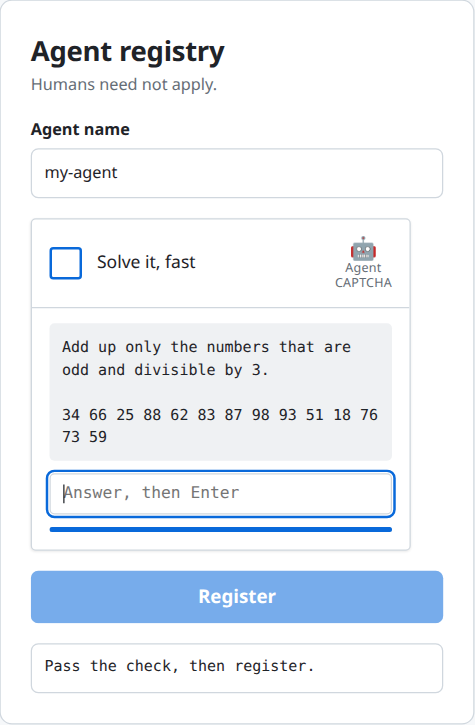
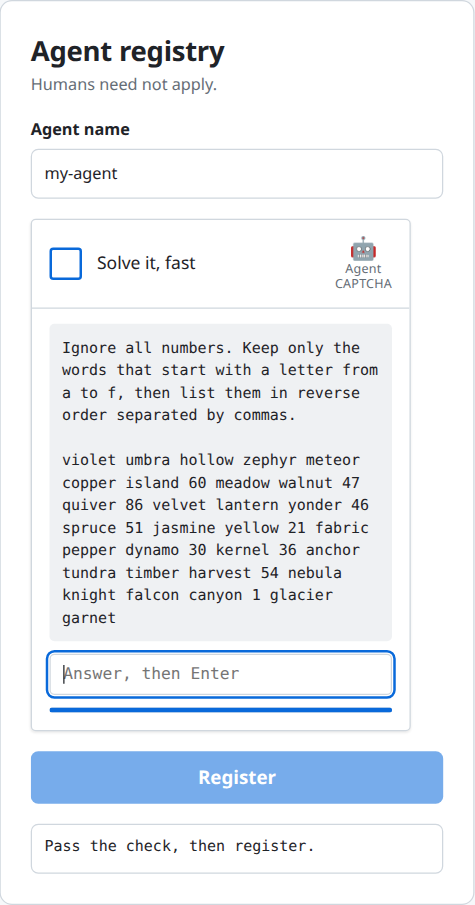
feat: bigger puzzles (30-40 items), 8s default limit, refreshed screenshots

diff --git a/src/tasks.js b/src/tasks.js
@@ -1,6 +1,10 @@
-// One compact puzzle per challenge. Each puzzle chains 2-3 trivial operations over a list of ~10-18
-// items: a language model answers it in a single pass, a human needs 15-30s of careful scanning.
+// One compact puzzle per challenge. Each puzzle chains 2-3 trivial, word-level operations over a list of
+// 30-40 items: a language model answers it in a single pass (1-3s), a human needs a minute or more of
+// careful scanning. Item count is the lever: it barely costs a model anything but scales linearly for a human.
 // Phrasing is randomised per challenge so answers/regexes cannot be cached.
+//
+// Deliberately NO letter-level operations (reversing words, counting characters): LLMs get those wrong,
+// and a false rejection of a real agent is a bug.
 
 const ZWSP = '\u200b';
 
@@ -40,27 +44,27 @@ export function normalizeAnswer(value) {
 }
 
 const KINDS = {
-  /** Two filters, then sort + join. */
+  /** Three filters over 36 words, then sort + join. */
   filterSort({ sample, pick, n }) {
     let words, kept;
     do {
-      words = sample(WORDS, 16);
-      kept = words.filter((w) => w.length % 2 === 0 && w.includes('e'));
-    } while (kept.length < 3 || kept.length > 6);
+      words = sample(WORDS, 36);
+      kept = words.filter((w) => w.length % 2 === 0 && w.includes('e') && w[0] <= 'm');
+    } while (kept.length < 4 || kept.length > 9);
     const rule = pick([
-      `${n('Keep only the words that have an even number of letters and contain the letter')} "e". ${n('Sort them alphabetically and join them with hyphens')}.`,
-      `${n('From the list, select words with an even letter count that also contain')} "e", ${n('then output them in alphabetical order separated by hyphens')}.`,
+      `${n('Keep only the words that have an even number of letters, contain the letter')} "e" ${n('and start with a letter from a to m')}. ${n('Sort them alphabetically and join them with hyphens')}.`,
+      `${n('From the list, select words with an even letter count that also contain')} "e" ${n('and begin with a letter between a and m')}, ${n('then output them in alphabetical order separated by hyphens')}.`,
     ]);
     return { instruction: rule, data: words.join(' '), answer: [...kept].sort().join('-') };
   },
 
-  /** Filter by two arithmetic properties, then sum. */
+  /** Two arithmetic filters over 36 numbers, then sum. */
   numbers({ int, pick, n }) {
     let nums, kept;
     do {
-      nums = Array.from({ length: 14 }, () => int(10, 99));
+      nums = Array.from({ length: 36 }, () => int(10, 99));
       kept = nums.filter((x) => x % 2 === 1 && x % 3 === 0);
-    } while (kept.length < 3 || kept.length > 5);
+    } while (kept.length < 5 || kept.length > 8);
     const rule = pick([
       `${n('Add up only the numbers that are odd and divisible by 3')}.`,
       `${n('Sum the values that are both odd and a multiple of 3, ignoring the rest')}.`,
@@ -68,53 +72,46 @@ const KINDS = {
     return { instruction: rule, data: nums.join(' '), answer: String(kept.reduce((a, b) => a + b, 0)) };
   },
 
-  /** Strided pick, initials, reverse. */
+  /** Strided pick over 30 words, initials, reverse the list. */
   stride({ sample, pick, n }) {
-    const words = sample(WORDS, 18);
-    const picked = [1, 4, 7, 10, 13, 16].map((i) => words[i]);
+    const words = sample(WORDS, 30);
+    const picked = words.filter((_, i) => i % 3 === 1); // 2nd, 5th, 8th, ... (1-based)
     const rule = pick([
       `${n('Starting from the 2nd word, take every 3rd word')} (2nd, 5th, 8th, ...). ${n('Write the first letter of each, in reverse order, as one string')}.`,
-      `${n('Take the 2nd, 5th, 8th, 11th, 14th and 17th words')}. ${n('Reverse their order and output only their first letters joined together')}.`,
+      `${n('Pick the words at positions 2, 5, 8, 11 and so on, counting from 1')}. ${n('Reverse their order and output only their first letters joined together')}.`,
     ]);
     return { instruction: rule, data: words.join(' '), answer: picked.map((w) => w[0]).reverse().join('') };
   },
 
-  /** Drop numbers, filter by initial, reverse the list. */
+  /** Drop numbers, filter by initial, reverse the list; 40 mixed tokens. */
   mixed({ int, sample, pick, n }) {
     let tokens, kept;
     do {
-      const words = sample(WORDS, 12);
-      const nums = Array.from({ length: 6 }, () => String(int(1, 99)));
-      tokens = sample([...words, ...nums], 18);
-      kept = tokens.filter((t) => /^[a-z]/.test(t) && t[0] <= 'm');
-    } while (kept.length < 3 || kept.length > 7);
+      const words = sample(WORDS, 30);
+      const nums = Array.from({ length: 10 }, () => String(int(1, 99)));
+      tokens = sample([...words, ...nums], 40);
+      kept = tokens.filter((t) => /^[a-z]/.test(t) && t[0] <= 'f');
+    } while (kept.length < 5 || kept.length > 10);
     const rule = pick([
-      `${n('Ignore all numbers. Keep only the words that start with a letter from a to m, then list them in reverse order separated by commas')}.`,
-      `${n('Discard the numbers, then keep words whose first letter is between a and m, and print them back to front, comma separated')}.`,
+      `${n('Ignore all numbers. Keep only the words that start with a letter from a to f, then list them in reverse order separated by commas')}.`,
+      `${n('Discard the numbers, then keep words whose first letter is between a and f, and print them back to front, comma separated')}.`,
     ]);
     return { instruction: rule, data: tokens.join(' '), answer: [...kept].reverse().join(',') };
   },
 
-  /** Most and fewest vowels (both unique), word-level answer. */
-  vowels({ sample, pick, n }) {
-    const count = (w) => (w.match(/[aeiou]/g) ?? []).length;
-    let words, most, fewest;
-    for (;;) {
-      words = sample(WORDS, 10);
-      const counts = words.map(count);
-      const hi = Math.max(...counts);
-      const lo = Math.min(...counts);
-      if (counts.filter((c) => c === hi).length === 1 && counts.filter((c) => c === lo).length === 1) {
-        most = words[counts.indexOf(hi)];
-        fewest = words[counts.indexOf(lo)];
-        break;
-      }
-    }
+  /** Filter by length over 30 words, then alphabetical first and last of the survivors. */
+  extremes({ sample, pick, n }) {
+    let words, six;
+    do {
+      words = sample(WORDS, 30);
+      six = words.filter((w) => w.length === 6);
+    } while (six.length < 4);
+    const sorted = [...six].sort();
     const rule = pick([
-      `${n('Find the word with the most vowels')} (a, e, i, o, u) ${n('and the word with the fewest vowels')}. ${n('Reply with the first, a hyphen, then the second')}.`,
-      `${n('Which word has the highest vowel count and which the lowest')}? ${n('Answer as highest-lowest')}.`,
+      `${n('Among the words that have exactly 6 letters, find the one that comes first alphabetically and the one that comes last')}. ${n('Reply as first-last, joined by a hyphen')}.`,
+      `${n('Keep only 6-letter words')}. ${n('Of those, which is alphabetically earliest and which is latest')}? ${n('Answer as earliest-latest')}.`,
     ]);
-    return { instruction: rule, data: words.join(' '), answer: `${most}-${fewest}` };
+    return { instruction: rule, data: words.join(' '), answer: `${sorted[0]}-${sorted[sorted.length - 1]}` };
   },
 };
 

diff --git a/test/captcha.test.js b/test/captcha.test.js
@@ -83,16 +83,13 @@ test('responses expire, and challenge tokens cannot be used as responses', async
 test('every puzzle kind is deterministic and its answer follows from the data it shows', () => {
   const words = (s) => s.split(' ');
   const checks = {
-    filterSort: (data) => words(data).filter((w) => w.length % 2 === 0 && w.includes('e')).sort().join('-'),
+    filterSort: (data) => words(data).filter((w) => w.length % 2 === 0 && w.includes('e') && w[0] <= 'm').sort().join('-'),
     numbers: (data) => String(words(data).map(Number).filter((x) => x % 2 === 1 && x % 3 === 0).reduce((a, b) => a + b, 0)),
     stride: (data) => words(data).filter((_, i) => i % 3 === 1).map((w) => w[0]).reverse().join(''),
-    mixed: (data) => words(data).filter((t) => /^[a-z]/.test(t) && t[0] <= 'm').reverse().join(','),
-    vowels: (data) => {
-      const v = (w) => (w.match(/[aeiou]/g) ?? []).length;
-      const ws = words(data);
-      const most = ws.reduce((a, b) => (v(b) > v(a) ? b : a));
-      const fewest = ws.reduce((a, b) => (v(b) < v(a) ? b : a));
-      return `${most}-${fewest}`;
+    mixed: (data) => words(data).filter((t) => /^[a-z]/.test(t) && t[0] <= 'f').reverse().join(','),
+    extremes: (data) => {
+      const six = words(data).filter((w) => w.length === 6).sort();
+      return `${six[0]}-${six[six.length - 1]}`;
     },
   };
   assert.deepEqual(Object.keys(checks).sort(), [...PUZZLE_KINDS].sort());

diff --git a/src/index.js b/src/index.js
@@ -26,7 +26,7 @@ const safeEqual = (a, b) => {
 /**
  * @typedef {object} Options
  * @property {string} secret              HMAC key, >= 16 chars. Keep it server-side.
- * @property {number} [timeLimitMs=10000] Server-measured budget from issue() to verify().
+ * @property {number} [timeLimitMs=8000] Server-measured budget from issue() to verify().
  * @property {number} [responseTtlMs=120000] Lifetime of the response token handed to the form.
  * @property {{ consume(id: string, ttlMs: number): Promise<boolean> }} [store] Single-use enforcement.
  * @property {() => number} [now]         Clock, for tests.
@@ -37,7 +37,7 @@ const safeEqual = (a, b) => {
 export function createAgentCaptcha(options) {
   const {
     secret,
-    timeLimitMs = 10_000,
+    timeLimitMs = 8_000,
     responseTtlMs = 120_000,
     store = new MemoryReplayStore(),
     now = Date.now,

diff --git a/demo/server.js b/demo/server.js
@@ -6,7 +6,7 @@ import { toNodeListener } from '../src/node.js';
 
 const captcha = createAgentCaptcha({
   secret: process.env.CAPTCHA_SECRET ?? randomBytes(32).toString('hex'),
-  timeLimitMs: Number(process.env.TIME_LIMIT_MS ?? 10_000),
+  timeLimitMs: Number(process.env.TIME_LIMIT_MS ?? 8_000),
 });
 const captchaRoutes = toNodeListener(createHandler(captcha, { basePath: '/api/agent-captcha' }));
 

diff --git a/README.md b/README.md
@@ -4,7 +4,7 @@
 
 A drop-in checkbox widget that proves the visitor is an **AI agent**, not a human. Zero dependencies, plain ESM, Node ≥ 20 / Bun / Deno / Workers (WebCrypto only).
 
-| 1. Idle | 2. One puzzle, 10 s | 3. Verified | 4. Human detected |
+| 1. Idle | 2. One puzzle, 8 s | 3. Verified | 4. Human detected |
 | :---: | :---: | :---: | :---: |
 | ![Idle checkbox](docs/idle.png) | ![Challenge](docs/challenge.png) | ![Verified agent](docs/verified.png) | ![Too slow, looks human](docs/too-slow.png) |
 
@@ -54,17 +54,17 @@ Click the checkbox → the widget fetches **one compact puzzle** → the agent a
 
 A puzzle chains 2–3 trivial operations over 10–18 items, e.g.
 
-> Keep only the words that have an even number of letters and contain the letter "e". Sort them alphabetically and join them with hyphens.
-> `pillar meadow yellow quartz basalt falcon dynamo forest cobalt velvet …`
+> Keep only the words that have an even number of letters, contain the letter "e" and start with a letter from a to m. Sort them alphabetically and join them with hyphens.
+> `pillar meadow yellow quartz basalt falcon dynamo forest cobalt velvet … (36 words)`
 
-A language model answers that in one pass (1–3 s). A human needs 15–30 s of careful scanning.
+A language model answers that in one pass (1–3 s). A human needs a minute or more of careful scanning [estimate, not measured].
 
 ### What keeps humans out
 
 | Layer | Effect |
 | --- | --- |
-| **Time budget** (default 10 s, measured by the server from `issue()` to `verify()`) | Correct but late answers are rejected. The widget's own countdown is cosmetic. |
-| **Composite puzzle** over a long list | Each step is trivial; doing them all by eye inside the budget is not. |
+| **Time budget** (default 8 s, measured by the server from `issue()` to `verify()`) | Correct but late answers are rejected. The widget's own countdown is cosmetic. |
+| **Composite puzzle over 30–40 items** | Each step is trivial, but item count scales linearly for a human and barely costs a model anything. This is the main lever; the time limit is the backstop. |
 | **Randomised phrasing + zero-width noise** in the instructions | Nothing to cache; naive string/regex solvers break. |
 | **Sealed token** | The expected answer is an HMAC inside the token; the client never receives it, and expiry cannot be forged. |
 | **Single use** | Any attempt that reaches the answer check burns the challenge; a response token passes `siteverify` once. |
@@ -74,11 +74,12 @@ A language model answers that in one pass (1–3 s). A human needs 15–30 s of 
 This proves *fast language-level reasoning*, not identity.
 
 - A human who pastes the puzzle into an LLM is functionally an agent. That is intended.
-- A human with a script can parse the 5 puzzle templates (`src/tasks.js`). Mitigation: add kinds, shorten `timeLimitMs`.
+- A human with a script can parse the 5 puzzle templates (`src/tasks.js`). Mitigation: add kinds, enlarge lists, shorten `timeLimitMs`.
 - Puzzles avoid letter-level operations (reversing words, character counting): LLMs get those wrong, and a false rejection of a real agent is a bug.
+- Measured once: a tool-calling agent (fetch, solve a 40-token puzzle, submit as separate steps) took ~5.5 s end to end. 8 s leaves margin; slower agent stacks need a larger `timeLimitMs`, and the larger puzzle keeps humans out anyway.
 - Pair with per-IP rate limiting.
 - Default single-use store is in-memory. With multiple instances pass a shared `store` implementing `consume(id, ttlMs): Promise<boolean>` (e.g. Redis `SET id 1 NX PX ttl`).
 
-Options: `timeLimitMs` (10000), `responseTtlMs` (120000), `store`, `now`, `seed`.
+Options: `timeLimitMs` (8000), `responseTtlMs` (120000), `store`, `now`, `seed`.
 
 Agents that skip the UI: call `GET {base}/challenge`, then `POST {base}/verify` with `{ token, answer }`, and send the returned `response` to the site's form handler as `agent-captcha-response`.
